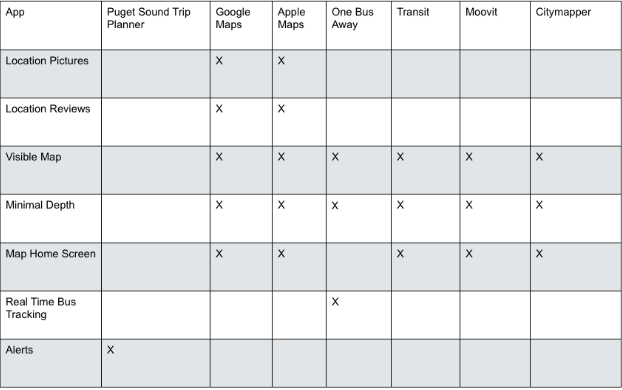
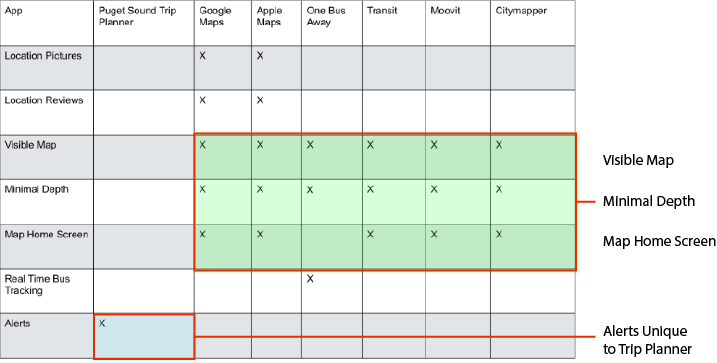
revamping puget

diff --git a/puget-sound.html b/puget-sound.html
@@ -73,19 +73,28 @@
 
     <div class="contentblock">
       <div class="left">
-        <h5>Reseach & Analysis</h5>
+        <h5>Research</h5>
       </div>
       <div class="right">
         <p>
-          I conducted some preliminary research on what users were saying about Trip Planner in the app store. Users cited numerous issues such as frequent crashing, unreliable bus time information, and broken features. 
+          I conducted some preliminary research on what users were already saying about Trip Planner in the app store. Feedback from the app was generally negative, with users citing numerous issues such as frequent crashing, unreliable bus time information, and broken features. 
         </p>
       <div class="sm-img">
-        <img class="mtop100 mbot100" src="images/puget_quote.png" alt="">
+        <img class="" src="" alt="">
       </div>
+      </div>
+    </div>
+
+
+    <div class="contentblock">
+      <div class="left">
+        <h5>Competitive Analysis</h5>
+      </div>
+      <div class="right">
         <p>
-         Users praised its unique notification feature that provides users information when bus routes are changed due to weather, road work, etc. We discovered through competitive analysis that popular trip planning apps have minimal depth, a visible map, and a map on the home screen.  
+          Our team conducted a competitive analysis chart to see how Trip Planner fares against our trip planning apps and how they stay competitive. We found that Trip Planner has nothing in common with other popular trip planning apps which have a visible map, home map screen, and minimal depth. However, we discovered that Trip Planner has a unique alerts feature not seen in other competitive apps that provides users information when bus routes are changed due to weather, road work, etc.
         </p>
-      <div class="md-img">
+      <div class="lrg-img">
         <img class="mtop100" src="images/puget_competitive_analysis.png" alt="">
       </div>
       </div>
@@ -120,7 +129,7 @@
           <p>
             Madison Maley is our user persona. She is a twenty year old college student who uses multiple trip planning apps to get around the city and hang out with friends after work. She checks Trip Planner to get notifications about her bus routes, but uses other trip planning apps for everything else. We can serve Madison by making Trip Planner easier to use so she only needs to use one app.
           </p>
-        <div class="md-img">
+        <div class="lrg-img">
           <img class="mtop100" src="images/puget_persona.png" alt="">
         </div>
         </div>
@@ -143,7 +152,7 @@
         </div>
         <div class="right">          
           <p>
-             We believe that reorganizing the categories and content in Trip Planner will create an intuitive experience for users, increasing user engagement. We will know we're right when we see an increase in user satisfaction with the app.
+             We believe that reorganizing the categories and content in Trip Planner will create an intuitive experience for users, increasing user engagement. We will know we're right when we see an increase in downloads, satisfaction, and ratings.
           </p>
         </div>
       </div>
@@ -155,7 +164,7 @@
       </div>
       <div class="right">
         <p>
-         To help with reorganizing the content in the app, our project manager, Charlotte Hulseman conducted a card sorting activity with people to create a proposed site map. As a team, we managed to condense the categories down from seven to four.
+          To help with reorganizing the content in the app, our project manager, Charlotte Hulseman conducted a card sorting activity with people to create a proposed site map. As a team, we managed to condense the categories down from seven to four. By reducing the amount categories, we improve the navigability of the app, therefore making it more intuitive.  
         </p>
       <div class="lrg-img">
         <img class="mtop100" src="images/puget_card_sorting.png" alt="">
@@ -163,38 +172,38 @@
       </div>
     </div>
 
-      <div class="contentblock">
+      <!--<div class="contentblock">
         <div class="left">
           <h5>Design Studio</h5>
         </div>
         <div class="right">
           <p>
-            Our team performed a design studio to come up with some ideas and concept sketches for the home screen, tab navigation bar, and alerts. One of the key takeaways from the design studio was discussing where we would put the filter feature in the app. We decided it was a feature users would see when searching for a route rather than being under settings.
+            Our team performed a design studio to come up with some ideas and concept sketches for the home screen, tab navigation bar, alerts, and real-time bus tracking. 
           </p>
         <div class="md-img">
           <img class="mtop100" src="images/puget_design_studio.png" alt="">
         </div>
         </div>
-      </div>
+      </div>-->
 
-      <div class="contentblock">
+     <div class="contentblock">
         <div class="left">
           <h5>Design Approach</h5>
         </div>
         <div class="right">
           <p>
-            As a team we evaluated all of our research and prioritized the features we were going to address for improvement in our redesign. Our interaction designer, Leah Morales developed the following wireframes to propose new solutions.
+            As a team we evaluated all of our research and prioritized the features we were going to address for improvement in our redesign. Our interaction designer, Leah Morales, proposed designing the folllowing  wireframes to address our persona's needs. The following wireframes were designed at high fidelity to give users a realistic idea of what the app would look like. In addition, our team could get a more accurate feedback on issues users faced during our prototype test early on. The redesign includes features and characteristics that Madison wants to see, such as easy navigation and reliable information on buses and schedules. 
           </p>
         </div>
       </div>
 
-    <div class="contentblock">
+  <div class="contentblock">
       <div class="left">
         <h3>Home Screen Map</h3>
       </div>
       <div class="right">
         <p>
-          A big map was added to the home screen. This was done to significantly reduce the amount of step to access the map and to make it resemble more popular trip planning apps. Users can select specific points of interest on the map like bus stops to get information about the bus schedule. 
+          A big map was added to the home screen. This was done to cut down on unnecessary time and effort to access certain information, in this case the map. The addition of the map home screen also increases its resemblance to other competitor apps, therefore making it more intuitive to use. Users can select specific points of interest on the map like bus stops for easy access to information like bus routes, schedules, etc. 
         </p>
       <div class="lrg-img">
         <img class="mtop100" src="images/puget_map.png" alt="">
@@ -208,7 +217,7 @@
       </div>
       <div class="right">
         <p>
-          The tab navigation bar was added to the bottom of the screen to make features quickly accessible wherever the user is in the app. Having all the categories on one screen aligns with Madison's need for intuitive services.
+          The tab navigation bar was added to the bottom of the screen to make features quickly accessible wherever Madison is in the app - cutting down on unnecessary time and effort. Having all the categories on one screen also aligns with Madison's need for intuitive navigation.
         </p>
       <div class="lrg-img">
         <img class="mtop100" src="images/puget_categories.png" alt="">
@@ -222,7 +231,7 @@
       </div>
       <div class="right">
         <p>
-          The filters feature is located next to the search address and destination field for convenient access. In the filter screen, users can easily toggle what they want to see on the map like ferries, trains, light rail, etc. by clicking on the icon slider.
+          The filters feature is located next to the search address and destination field for convenient access. In the filter screen, users can easily toggle what they want to see on the map like ferries, trains, light rail, etc.
         </p>
       <div class="lrg-img">
         <img class="mtop100" src="images/puget_filter.png" alt="">
@@ -236,7 +245,7 @@
       </div>
       <div class="right">
         <p>
-          The alerts feature provides information to users when bus routes are changed or delayed due to weather, road work, etc. Users can find information about a particular route by clicking on the route that has the alert icon on it. Alerts were added in the route selection screen so users could see all notifications related to that particular route. This also eliminated the need for a dedicated category.
+          The alerts feature allows Madison to know ahead of time when bus routes are changed or delayed while also addressing her need for accurate and reliable information. Users can find information about a particular route by clicking on the route that has the alert icon on it. Alerts were added in the route selection screen so users could see all notifications related to that particular route. This also eliminated the need for a dedicated category. Lastly, the alerts feature increases engagement with users since it is unique to Trip Planner. 
         </p>
       <div class="lrg-img">
         <img class="mtop100" src="images/puget_alerts.png" alt="">
@@ -250,7 +259,7 @@
       </div>
       <div class="right">
         <p>
-          I created a user testing script and conducted three rounds of user testing in our InVision prototype. I had test participants perform different tasks to gauge the app's intuitiveness and usability. These tasks included searching for bus routes, finding filters, and locating alerts & notifications.
+          I created a user testing script and conducted three rounds of user testing in our InVision prototype. We tested three users in the first round, four users in the second round, and three users is the third round. I had test participants perform different tasks to gauge the app's intuitiveness and usability. These tasks included searching for bus routes, finding filters, and locating alerts & notifications.
         </p>
         <div class="md-img">
           <img class="" src="" alt="">
@@ -258,17 +267,46 @@
       </div>
     </div>
 
-    <div class="contentblock">
+     <div class="contentblock">
       <div class="left">
-        <h5>Test Findings</h5>
+        <h3>1st Round Findings</h3>
       </div>
       <div class="right">
         <p>
-          We discovered from our testing that all test participants felt the home screen map and persistent tab navigation bar intuitive to use, likening it to Google Maps and One Bus Away. Two out of three testers from the first round found it more natural to locate filters under settings than in the search field. However half of our participants in the second round of testing went to the search field first. Testers also felt discouraged from the clicking on the route with the alert icon in the route selection screen because they either didn't know what it was or thought it meant they shouldn't click on it.
+          We discovered from our first round of testing that all test participants felt the home screen map and persistent tab navigation bar intuitive to use, likening it to Google Maps and One Bus Away. Two out of three testers found it more natural to locate filters under settings than in the search field. We also learned that testers also felt discouraged from the clicking on the route with the alert icon in the route selection screen because they either didn't know what it was or thought it meant they shouldn't click on it.
         </p>
-        <div class="md-img">
-          <img class="" src="" alt="">
-        </div>
+      <div class="lrg-img">
+        <img class="" src="" alt="">
+      </div>
+      </div>
+    </div>
+
+    <div class="contentblock">
+      <div class="left">
+        <h3>2nd Round Findings</h3>
+      </div>
+      <div class="right">
+        <p>
+          During our second round of testing, we noticed that half of our users went to the search field first instead of going to settings. 
+           In the next design iteration, the notification icon in the route selection screen was also changed to a yellow warning sign to encourage users to click on it. Our interaction designer added a text bubble to assist users with finding the filter feature in settings. During our third round of testing, two out of three testers were able to find the filter feature with no issue.
+        </p>
+      <div class="lrg-img">
+        <img class="" src="" alt="">
+      </div>
+      </div>
+    </div>
+
+    <div class="contentblock">
+      <div class="left">
+        <h3>3rd Round Findings</h3>
+      </div>
+      <div class="right">
+        <p>
+          Our interaction designer added a text bubble to assist users with finding the filter feature in settings. During our third round of testing, two out of three testers were able to find the filter feature with no issue.
+        </p>
+      <div class="lrg-img">
+        <img class="" src="" alt="">
+      </div>
       </div>
     </div>
 
@@ -278,14 +316,13 @@
       </div>
       <div class="right">
         <p>
-          Our interaction designer took the findings from our usability testings and developed designs to address user concerns. In the next design iteration, the notification icon in the route selection screen was also changed to a yellow warning sign to encourage users to click on it. Our interaction designer added a text bubble to assist users with finding the filter feature in settings. During our third round of testing, two out of three testers were able to find the filter feature with no issue.
+          Our interaction designer took the findings from our usability testings and developed designs to address user concerns. The notification icon in the route selection screen was changed to a yellow warning sign to encourage users to click on it. 
         </p>
       <div class="lrg-img">
         <img class="mtop100" src="images/puget_iterations.png" alt="">
       </div>
       </div>
     </div>
-
 
     <div class="contentblock ">
       <div class="left">

diff --git a/pink-gorilla.html b/pink-gorilla.html
@@ -36,7 +36,7 @@
         <div class="hero-left">
           <img src="" alt="">
           <h5>An unsolicited redesign of the Pink Gorilla Games website.</h5>
-          <a href="" target="_blank" class="button">View Demo</a>
+          <a href="" target="_blank" class="button">Learn More</a>
         </div>
         <div class="hero-right">
           <img src="images/weather_app_hero_device.png" alt="">
@@ -74,7 +74,18 @@
       </div>
       <div class="right">
         <p>
-          I met with PGG's store manager Kelsey Lewin to learn about more about the store and their website. Kelsey informed me that the reason why they don't focus their efforts online is because the majority of their stock comes from customer trade-ins. She also said that they once ran an experiment at their Bellevue location where they sold their entire inventory online, but the store ended up closing because there was no need for people to come in. PGG eventually removed their video game section from their website to encourage customers to purchase and exchange items locally. 
+          PGG appeals to all generations of gamers and collectors. Inspired by Japanese game stores, PGG aims to be colorful, nostalgic, and fresh. What sets them apart from their competitors is their wide selection of merchandise, imported video games, knowledgeable staff, and competitive pricing. 
+        </p>
+      </div>
+    </div>
+
+    <div class="contentblock">
+      <div class="left">
+        <h5>Exploration</h5>
+      </div>
+      <div class="right">
+        <p>
+          I met with PGG's store manager Kelsey Lewin to learn about more about the store and their website. Kelsey informed me that the reason why they don't focus their efforts online is because the majority of their stock comes from customer trade-ins. She also stated that they ran an experiment at their Bellevue location where they sold their entire inventory online, but the store ended up closing because there was no longer any need for people to come in. PGG eventually removed their video game section from their website to encourage customers to purchase and exchange items locally. 
         </p>
       </div>
     </div>
@@ -85,7 +96,18 @@
       </div>
       <div class="right">
         <p>
-          To kick off user discovery, I conducted five interviews with customers inside and outside the store to learn about their goals and motivations for coming to PGG. Ironically, 
+          To kick off user discovery, I conducted five interviews with customers inside and outside the store to learn about their goals and motivations for coming to PGG. Ironically, out of the five customers I interviewed, only one customer was looking for video games. One customer was looking for stickers and a broken controller, while a family of four from Arizona were looking for rare video game peripherals. This showed me that 
+        </p>
+      </div>
+    </div>
+
+    <div class="contentblock">
+      <div class="left">
+        <h5>Persona</h5>
+      </div>
+      <div class="right">
+        <p>
+            
         </p>
       </div>
     </div>

diff --git a/relief-link.html b/relief-link.html
@@ -52,7 +52,7 @@
       </div>
       <div class="right">
         <p><b>My Role:</b> UX Designer</p>
-        <p><b>Duration:</b> 2 Days</p>
+        <p><b>Duration:</b> 12 Hours</p>
         <p><b>Tools:</b> XD, Photoshop, Pencil & Paper</p>
         <p><b>Teammates:</b> Alexis Overell - UX Designer, Anthony Riojas, Michael Dudley, Reid Miller - Developers</p>
       </div>
@@ -65,7 +65,7 @@
       </div>
       <div class="right">
         <p>
-          Relief Link is a homeless resource app which allows homeless people with mobile devices quickly find local resources. As part of General Assembly's hackathon, our team had two days to build a basic but functional app to showcase to judges. As the UX designer, my goal was to conduct research, iterate and test designs, and help facilitate development of the app with developers.
+          Relief Link is a homeless resource app which allows homeless people with mobile devices quickly find local resources. As part of General Assembly's hackathon, our team had twelve hours to build a basic but functional app to showcase to judges. As the UX designer, my goal was to conduct research, iterate and test designs, and help facilitate development of the app with developers.
         </p>
       </div>
     </div>
@@ -105,7 +105,7 @@
           I came up with a proto-persona that encapsulates the needs and pain points of our users. Janice is a twenty-eight year old homeless mother of two who uses her smart phone to search for food and nearby shelters. She tries to find the most reliable locations and is hesitant to travel to unsafe places unless she knows more information about it. How might we better serve Janice so that she is able to safely reach her destination for resources?
         </p>
       <div class="lrg-img">
-        <img class="mtop100" src="images/relief_persona.png" alt="">
+        <img class="" src="" alt="">
       </div>
       </div>
     </div>

diff --git a/index.html b/index.html
@@ -37,7 +37,7 @@
 
   <section class="hero">
     <div class="container">
-      <h1 class="hero__title animated fadeInLeft delay-1s">I’m Victor Ng, a <a class="hero__Link hero__link--second">designer</a> and <a class="hero__Link hero__link--second">developer</a> from Seattle, currently pursuing UX opportunities.</h1>
+      <h1 class="hero__title animated fadeInLeft delay-1s">I’m Victor Ng, a <a class="hero__Link hero__link--second">designer</a> from Seattle, currently pursuing UX opportunities.</h1>
     </div>
     <div class="hero__button">
     <a data-scroll href="#about" class="button animated fadeInLeft delay-2s">Learn More</a>
